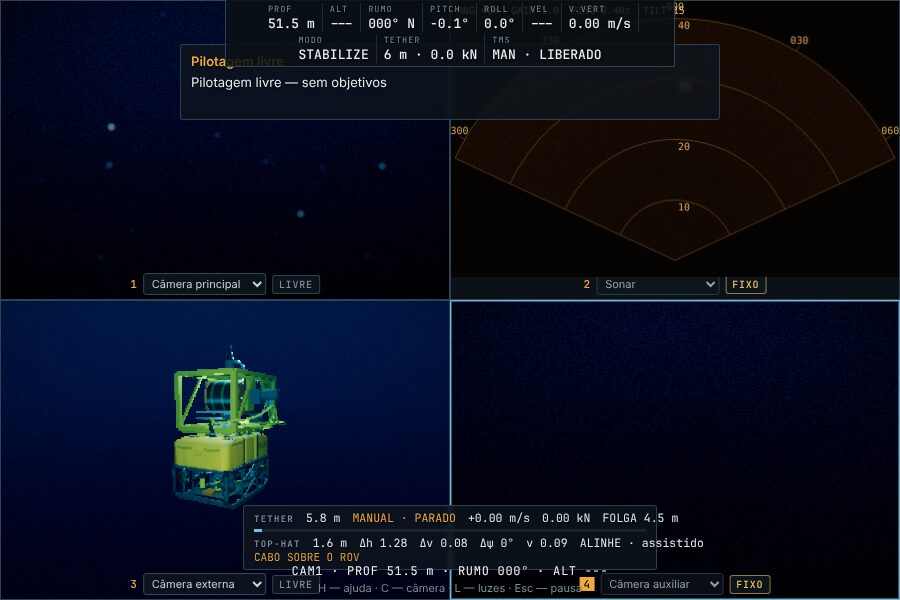
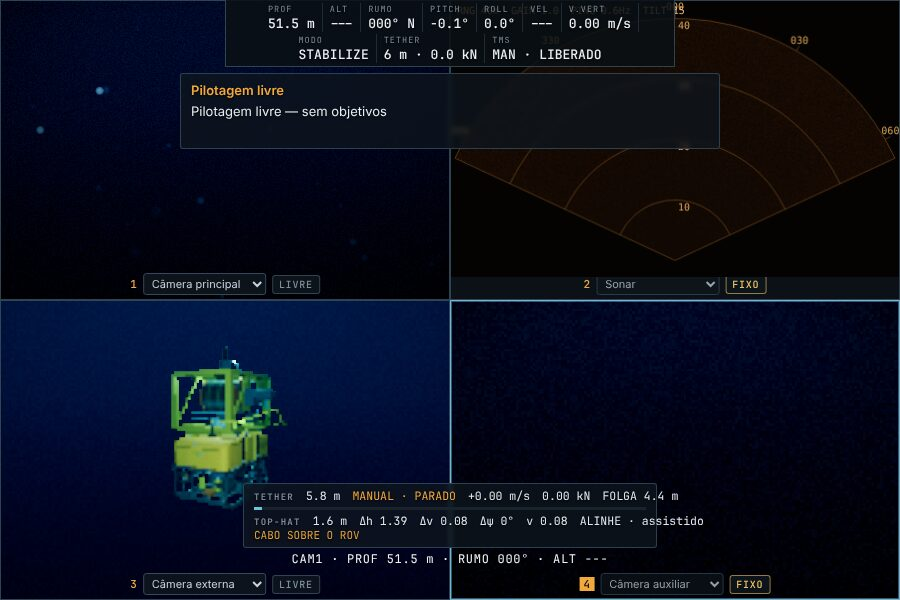
v3.1.1: HUD em 2/4 telas sem sobreposição (missão abaixo da barra de instrumentos, OSD acima dos seletores)
Claude-Session: https://claude.ai/code/session_011UWWjy5Xj6A2B4peiX5gir

diff --git a/src/ui/hud.ts b/src/ui/hud.ts
@@ -356,6 +356,13 @@ export class Hud {
       .map(([k, v, c]) => `<div${c ? ` class="${c}"` : ''}><span>${k}</span><b>${v}</b></div>`)
       .join('');
     this.lastData = d;
+    // Multi-view: the mission box sits right below the instrument bar (which may wrap).
+    const missionBox = this.root.querySelector<HTMLElement>('.panel.mission');
+    if (missionBox) {
+      const multi = this.root.dataset.layout === 'dual' || this.root.dataset.layout === 'quad';
+      const top = multi ? `${e.ibar.offsetTop + e.ibar.offsetHeight + 6}px` : '';
+      if (missionBox.style.top !== top) missionBox.style.top = top;
+    }
     e.limit.style.color = COLORS.warn;
     if (d.tetherAtMax) {
       e.tether.textContent += ` · ${t('hud.tetherMax')}`;

diff --git a/src/ui/hud.css b/src/ui/hud.css
@@ -678,6 +678,18 @@
 .hud[data-layout='quad'] .mission .mhint {
   display: none;
 }
+/* Multi-view: keep the bottom OSD and TMS line above the panel headers (selectors). */
+.hud[data-layout='dual'] .osd,
+.hud[data-layout='quad'] .osd {
+  bottom: 32px;
+}
+.hud[data-layout='quad'] .osd .hint {
+  display: none;
+}
+.hud[data-layout='dual'] .tmsp,
+.hud[data-layout='quad'] .tmsp {
+  bottom: 52px;
+}
 /* Station panels */
 .station {
   position: absolute;
